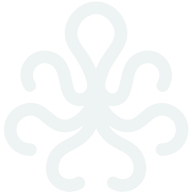
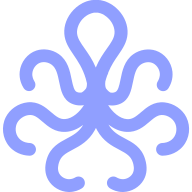
media: icono de marca nuevo

diff --git a/src/media/generated.ts b/src/media/generated.ts
@@ -5,7 +5,7 @@
  * saltos de composición), y los vectores inline (viewBox + trazado; pintan con currentColor y se dimensionan por tokens).
  */
 export const media = {
-  icon: { src: "/icon.svg", type: "image/svg+xml", width: 264, height: 274, sizes: "264x274" },
+  icon: { src: "/icon.svg", type: "image/svg+xml", width: 263, height: 272, sizes: "263x272" },
   favicon: { src: "/favicon.ico", type: "image/x-icon", sizes: "16x16 32x32 48x48" },
   appleTouchIcon: { src: "/apple-touch-icon-180.png", type: "image/png", width: 180, height: 180, sizes: "180x180" },
   icon192: { src: "/icon-192.png", type: "image/png", width: 192, height: 192, sizes: "192x192" },
